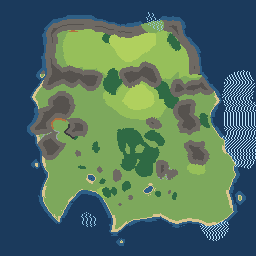
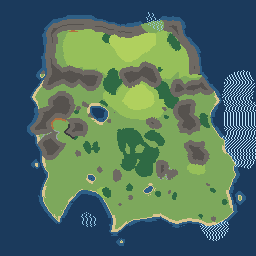
docs: B-2マップv3f＝データv1.2（母港の森間引き・低密度点在・山あいの湖）

diff --git a/GPT/game/shioji/decisions/DECISIONS_20260814_b2_map_v3f.md b/GPT/game/shioji/decisions/DECISIONS_20260814_b2_map_v3f.md
@@ -1,0 +1,6 @@
+# 決定ログ 2026-08-14 — B-2マップv3f＝データv1.2（母港の森の間引き・低密度点在・山あいの湖）
+
+**状態**: 凍結
+**Nao_u原文**: 「1の近くの森が大きくなりすぎている。1の近くの森をチュートリアルに必要なものを除いて削除しつつ、4、三の右側と右下、2の周辺などで農地以外のところにこれより低密度でいいので緑のところに少し今みたいな飾りを置いて。あと、2の左の山に囲まれた付近に大きな湖などあってもいいかも」
+
+**反映**: (1)母港15タイル圏は教程の小森1つ以外を森にしない恒久規則+周辺の点在林を間引き (2)4の周辺・3の右と右下・2の縁(農地外)・約束の土地に低密度の林と大岩 (3)2の左の山あいに大きな湖(r9・湖畔の岩の背つき)。距離・峠ロック検証は全緑。**投入データは b2_map_data.json v1.2 が正**
